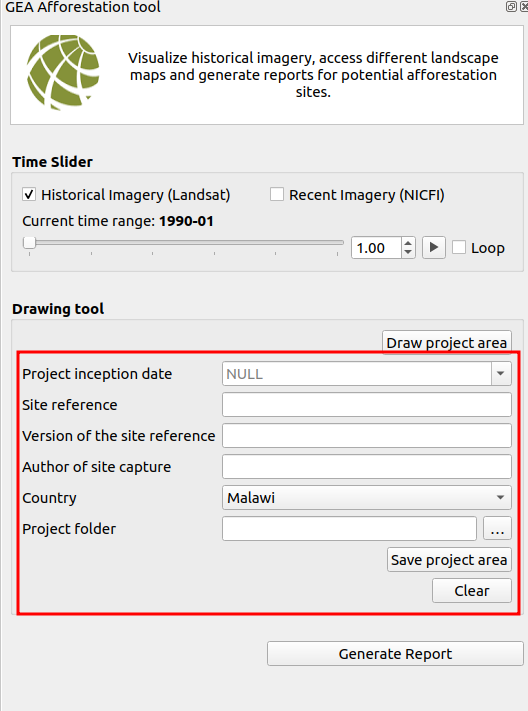
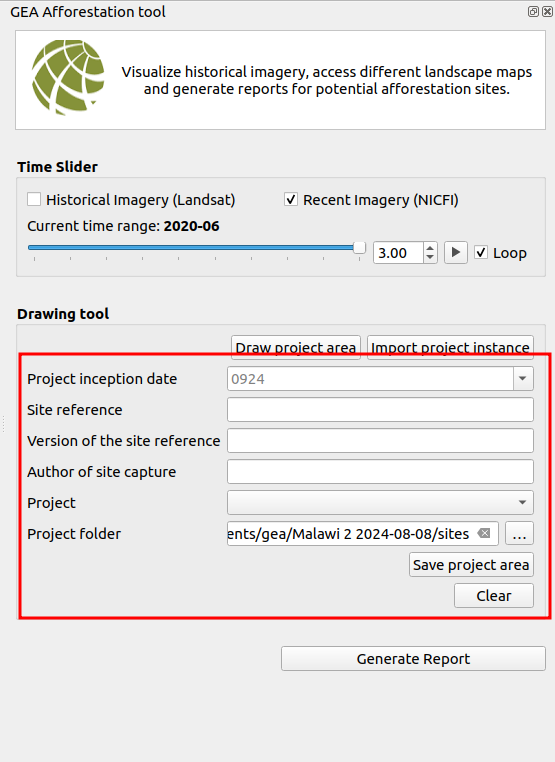
Added import instance doc (#102)
* Added import instance doc

* Added generate report doc

Changed region(s): [[0.0, 0.4023, 1.0, 0.9283], [0.0, 0.0, 1.0, 0.3713]]

diff --git a/docs/src/user/manual/gea-reforestation-tool.md b/docs/src/user/manual/gea-reforestation-tool.md
@@ -46,38 +46,98 @@ The user can use the drawing tool to draw polygons on the map canvas.
     
 ![Drawing tool](./img/gea-reforestation-tool-5.png)
 
-5.1 **Draw Project Area Button:** The user can use this button to draw the polygon on the map canvas. Before using the `Draw Project Area` button, ensure that the site reference has been provided. After drawing the polygon right-click. Upon clicking the pop-up will open for entering the ID, ID should be 1.
+**Draw Project Area Button:** The user can use this button to draw the polygon on the map canvas. Before using the `Draw Project Area` button, ensure that the site reference has been provided. After drawing the polygon right-click. Upon clicking the pop-up will open for entering the ID, ID should be 1.
 
 ![Id popup](./img/gea-reforestation-tool-9.png)
 
-- **Error Handling:** If any of the fields is empty, an error message will be displayed for example for the site reference field the message would be: `Please add the site reference before starting drawing the project area.`
+* **Error Handling:** If any of the fields is empty, an error message will be displayed for example for the site reference field the message would be: `Please add the site reference before starting drawing the project area.`
 
     ![Error message](./img/gea-reforestation-tool-4.png)
 
-- **Editing:** After drawing the polygon, you can edit it using the options available in the toolbar. The edit icon will appear in front of the project in the layer list, allowing modifications before saving.
+* **Editing:** After drawing the polygon, you can edit it using the options available in the toolbar. The edit icon will appear in front of the project in the layer list, allowing modifications before saving.
 
     ![Edit options](./img/gea-reforestation-tool-6.png)
 
-5.2 **Project Inception Date:** To choose the project inception date, click on the field to open a calendar. Select the desired date from the calendar interface.
+* **Project Inception Date:** To choose the project inception date, click on the field to open a calendar. Select the desired date from the calendar interface.
 
 ![Calander](./img/gea-reforestation-tool-7.png)
 
-5.3 **Site Reference:** Enter the site reference to identify the specific location or area for the project.
+* **Site Reference:** Enter the site reference to identify the specific location or area for the project.
 
-5.4 **Version of the Site Reference:** Add the version number corresponding to the site reference for version control and tracking.
+* **Version of the Site Reference:** Add the version number corresponding to the site reference for version control and tracking.
 
-5.5 **Author of the Site Capture:** Enter the name of the individual who captured or recorded the site details.
+* **Author of the Site Capture:** Enter the name of the individual who captured or recorded the site details.
 
-5.6 **Country Dropdown:** Choose the country from the dropdown list to specify the location of the project.
+* **Country Dropdown:** Choose the country from the dropdown list to specify the location of the project.
 
-5.7 **Project Folder:** Select the project folder where plugin data is stored. The shape files will be saved in the `Sites` directory, which is automatically generated when you save the project.
+* **Project Folder:** Select the project folder where plugin data is stored. The shape files will be saved in the `Sites` directory, which is automatically generated when you save the project.
 
 ![Sites directory](./img/gea-reforestation-tool-8.png)
 
-5.8 **Save Project Area Button:** Click the `Save Project Area` button to save the project after drawing the polygon. The shape files will be stored in the `Sites` directory.
+* **Save Project Area Button:** Click the `Save Project Area` button to save the project after drawing the polygon. The shape files will be stored in the `Sites` directory.
 
-5.9 **Clear Button:** Use the `Clear` button to remove the polygon from the map. Note that the polygon must be cleared before saving the project, as shape files stored in the sites folder will not be deleted after saving.
+* **Clear Button:** Use the `Clear` button to remove the polygon from the map. Note that the polygon must be cleared before saving the project, as shape files stored in the sites folder will not be deleted after saving.
+
+**Import project instance:** The user can use the `Import project instance` button to import project instances directly from the system. After clicking on the `Import project instance` button, a pop-up window will appear where the user can select an instance from the available options.
+
+![Import Project Instance](./img/gea-reforestation-tool-10.png)
+
+* **Cancel:** Close the pop-up window.
+* **Open:** Select the file and click on the `Open button` to proceed.
+* **Shapefiles:** Extension of the file.
+
+After selecting the desired project instance user will click on the `open` button and a pop up project instance attributes dialog box will appear.
+
+![Project Instance Attributes](./img/gea-reforestation-tool-11.png)
+
+* **X:** Close the pop-up dialog box. 
+* **Report Author:** The name of the person generating the report.
+* **Project:** The name of the country where the project is located.
+* **Cancle:** Terminate the process.
+* **Save:** Save the instance to proceed.
+
+**Error Message:** If the author, project, IncepDate, or area names are already present in the project instance, you will encounter this error.
+
+![Error](./img/gea-reforestation-tool-13.png)
+
+* **X:** Close the window.
+* **No:**  Cancel the process.
+* **Yes:** Overwrite names.
+
+After saving the instance, the selected instance will be added to the project instances in the layer section.
+
+![Qgis Interface](./img/gea-reforestation-tool-12.png)
 
 ## Automated Report
 
-Click on the generate report button to generate an automated report.
+![Generate Report](./img/gea-reforestation-tool-14.png)
+
+1. **Generate Report:** Click on the `Generate Report` button to generate an automated report.
+
+    After clicking the `Generate Report` button **Site Report Progress** pop-up window will appear displaying the status of the report.
+
+    ![Site Report Progress](./img/gea-reforestation-tool-15.png)
+
+    * **Progress Bar:** Displaying the current status of the process.
+    * **Close:** Cancel the process.
+    * **Open PDF:** Open the PDF in a new pop-up window.
+
+    ## Genenrated Report
+
+    This is the report generated after completing the process.
+
+    ![Generated Report](./img/gea-reforestation-tool-16.png)
+
+    1. **GEA Reforestation Site Report:** Displaying the report information.
+        - **Date of Project Inception:** The date when the project started.
+        - **Version of Site Referrence:** The version of the site reference.
+        - **Date of Site Capture:** The date when the site was captured.
+        - **Site Refference:** The site reference.
+        - **Author of Site Capture:** The person who captured the site.
+        - **Country Location:** The country where the project is located.
+        - **Site Area:** The area of the site.
+
+    2. **Site Location Maps:** Displaying the site location on the maps.
+
+    3. **Landscape Exclusion and Inclusion Areas:**  Displaying the Historical Landsat 2013 with and without exclusion masks and 
+    proposed site.

diff --git a/docs/src/user/guide/gea-reforestation-tool.md b/docs/src/user/guide/gea-reforestation-tool.md
@@ -150,7 +150,7 @@ This tutorial, will walk you through using the `Drawing Tool` to create project 
 
 * Author of the Site Capture: Enter the name of the person who recorded the site details.
 
-* Country: Select the project's country from the dropdown list.
+* Project: Select the project's origin from the dropdown list.
 
 * Project Folder: Choose the folder where plugin data will be stored.
     
@@ -162,10 +162,50 @@ This tutorial, will walk you through using the `Drawing Tool` to create project 
 
    - Important: Clear the polygon before saving a new project, as existing shape files in the Sites folder won't be automatically deleted.
 
+## How to import project instance
+
+
+**Accessing Import project instance:** Click on the 1⃣ `Import project instance` on the qgis  interface.
+
+![Image Project Instance](./img/gea-reforestation-tool-16.png)
+
+After clicking on the `Import Project Instance`, a pop-up window will appear. Locate your project instance directory, then select the instance and click the 1⃣ `Open` button.
+
+![Select Project Instance Window](./img/gea-reforestation-tool-17.png)
+
+After selecting the desired project instance, a `Project Instance Attributes` pop-up window will appear, where you need to fill in some information to proceed.
+
+![Project Instance Attributes](./img/gea-reforestation-tool-18.png)
+
+- **Report Author :** Name of the person generating the report.
+- **Project :** Select the origin of the project from dropdown menu.
+- **Cencel :** Click on the `Cancel` button to stop the process.
+- **Save :** Click on the `Save` button to complete the process.
+
+**Error Message:** If the author, project, IncepDate, or area names are already present in the project instance, you will encounter this error.
+
+![Error](./img/gea-reforestation-tool-20.png)
+
+* **No:**  Cancel the process.
+* **Yes:** Overwrite names.
+
+After saving the instance, your selected instance will be added to the project instance in the layer section.
+
+![Import Project Instances](./img/gea-reforestation-tool-19.png)
+
 ## Automated Report Generation
 
 ![Report](./img/gea-reforestation-tool-13.png)
 
-**Generating an Automated Report:** After drawing and saving your project area, click the Generate Report` button. The system will create an automated report based on your project area and details.
+**Generating an Automated Report:** After drawing and saving your project area, click on the 1⃣ `Generate Report` button, upon clicking the button report generation process will start and the pop-up window will open, showing the status of the process.
+
+![Report Progress Dialog](./img/gea-reforestation-tool-21.png)
+
+* **Close:**  Close the dialog to continue working on your project.
+* **Open PDF:** Open the generated report PDF in a new pop-up window  (Shown below).
+
+![Report PDF](./img/gea-reforestation-tool-22.png)
 
 By following these steps, you will be able to effectively use the Drawing Tool to define your project areas and generate automated reports for the GEA Reforestation project.
+
+
